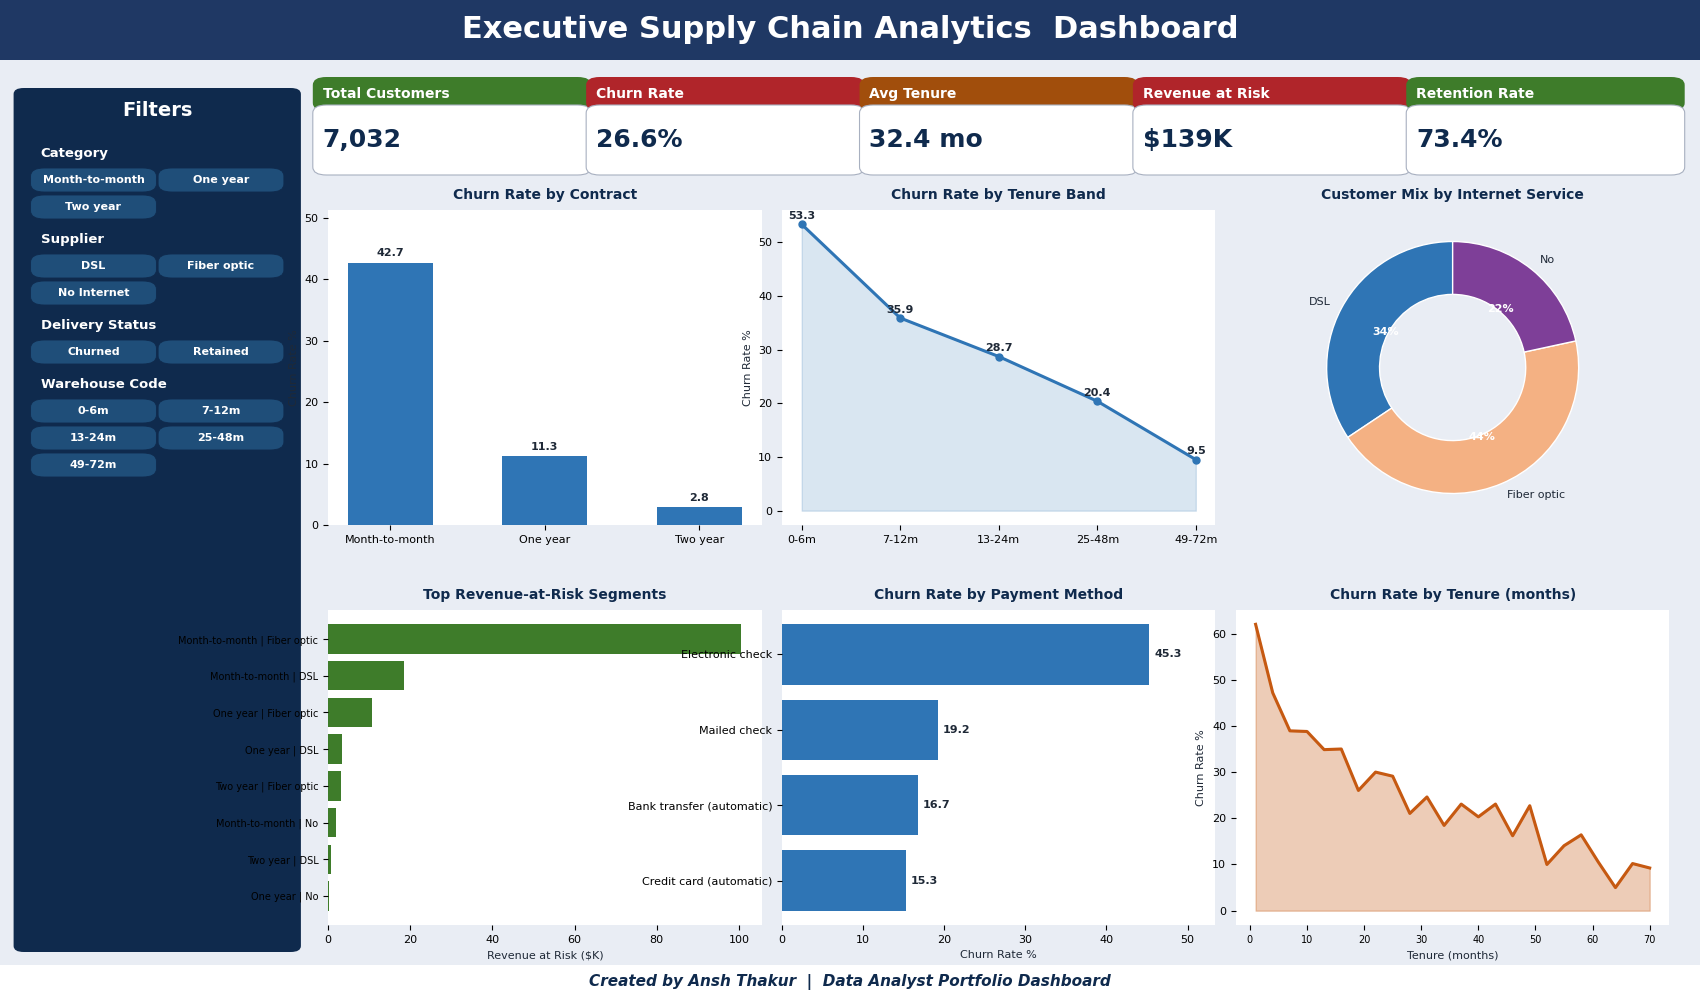
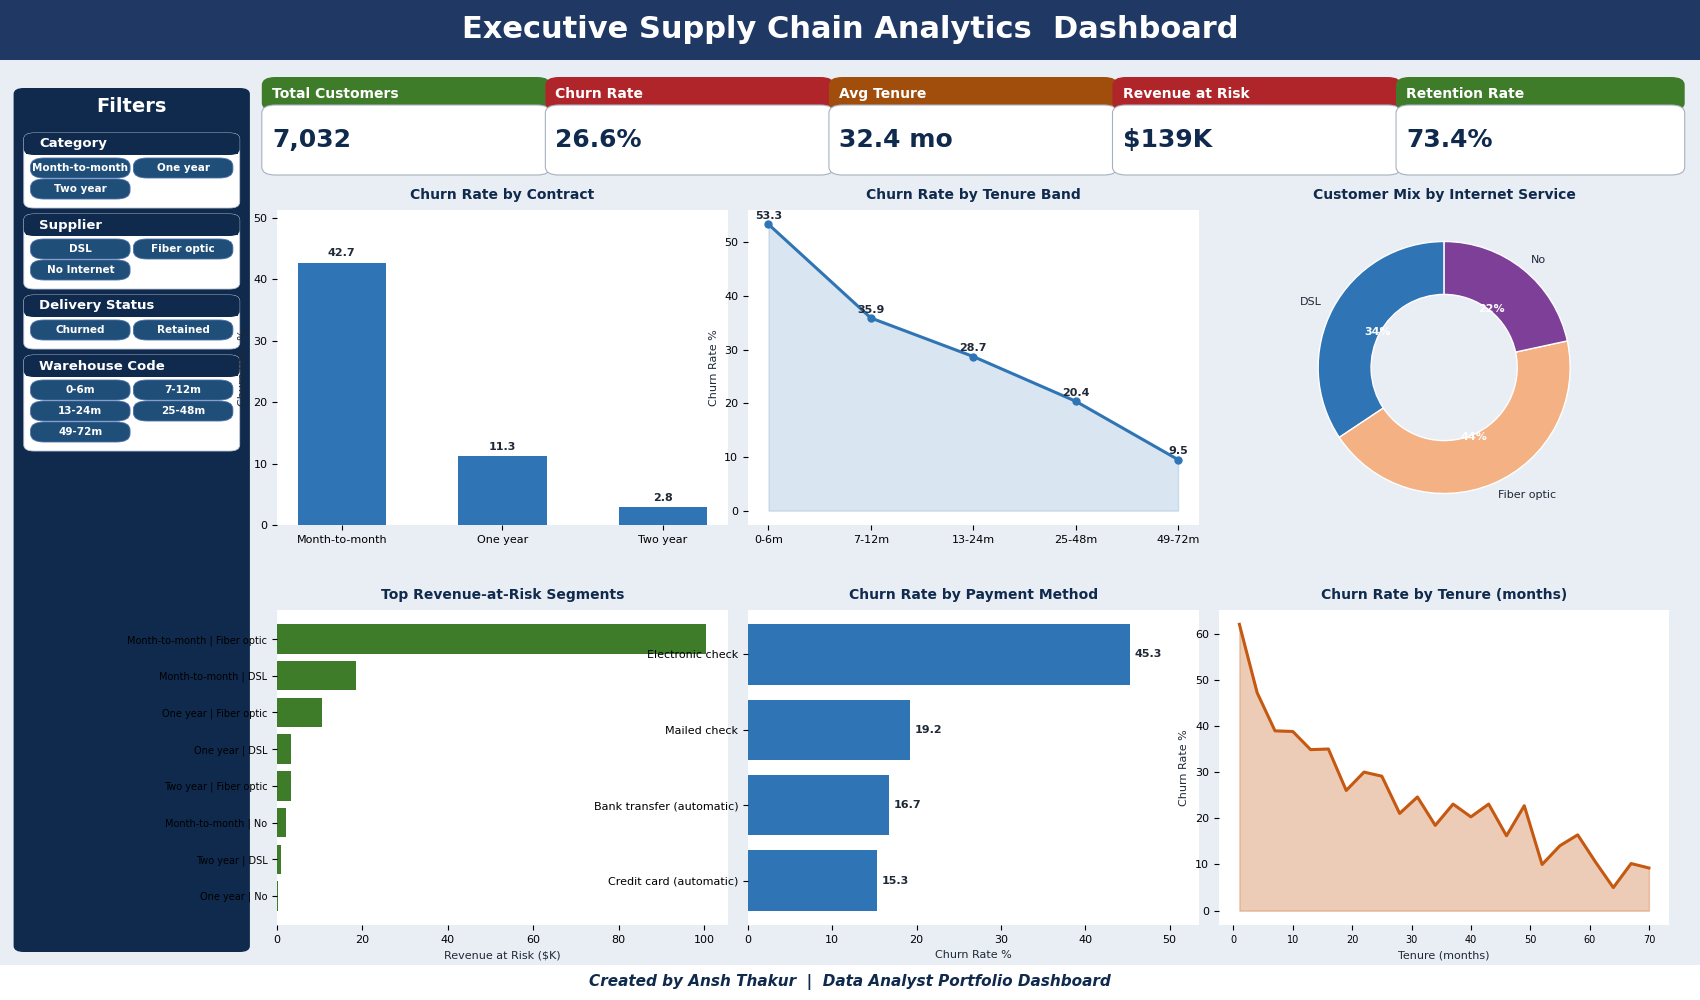
style(churn): redesign filter panel as slicer boxes (white body + dark header + blue chips) matching the supply chain reference

diff --git a/subscription-retention-analytics/src/render_dashboard_screenshot.py b/subscription-retention-analytics/src/render_dashboard_screenshot.py
@@ -48,31 +48,47 @@ def _kpi(ax, x, y, w, h, label, value, color):
 def _chip(ax, x, y, w, h, text):
     ax.add_patch(FancyBboxPatch((x, y), w, h,
                                 boxstyle="round,pad=0.001,rounding_size=0.008",
-                                linewidth=0.6, edgecolor=NAVY_DARK, facecolor=PANEL_BLUE,
+                                linewidth=0.6, edgecolor="#4A6FA8", facecolor=PANEL_BLUE,
                                 transform=ax.transAxes))
-    ax.text(x + w / 2, y + h / 2, text, color=WHITE, fontsize=8, weight="bold",
+    ax.text(x + w / 2, y + h / 2, text, color=WHITE, fontsize=7.5, weight="bold",
             transform=ax.transAxes, ha="center", va="center")
 
 
-def _filter_section(ax, x, y, w, items, label, section_w):
-    bar_h = 0.022
-    ax.add_patch(Rectangle((x, y - bar_h), section_w, bar_h,
+def _filter_section(ax, x_top, y_top, w, items, label):
+    """Draw one slicer box: dark header + white body with chips (2 per row)."""
+    # Box dimensions
+    chip_h = 0.018
+    chip_gap_y = 0.003
+    chip_pad_x = 0.004
+    chip_pad_y = 0.005
+    rows = math.ceil(len(items) / 2)
+    body_h = chip_pad_y * 2 + rows * chip_h + (rows - 1) * chip_gap_y
+    header_h = 0.020
+    box_h = header_h + body_h + 0.004
+    # White body with rounded corners
+    box_y = y_top - box_h
+    ax.add_patch(FancyBboxPatch((x_top, box_y), w, box_h,
+                                boxstyle="round,pad=0.001,rounding_size=0.006",
+                                linewidth=0.6, edgecolor="#C0C8D8",
+                                facecolor=WHITE, transform=ax.transAxes))
+    # Dark header strip (top portion of the box)
+    ax.add_patch(FancyBboxPatch((x_top, y_top - header_h), w, header_h,
+                                boxstyle="round,pad=0.001,rounding_size=0.006",
+                                linewidth=0, facecolor=NAVY_DARK, transform=ax.transAxes))
+    # Cover the bottom rounding of the header to make it flush with the body
+    ax.add_patch(Rectangle((x_top, y_top - header_h), w, header_h * 0.55,
                            facecolor=NAVY_DARK, transform=ax.transAxes))
-    ax.text(x + 0.008, y - bar_h / 2, label, color=WHITE, fontsize=9.5, weight="bold",
+    ax.text(x_top + 0.008, y_top - header_h / 2, label, color=WHITE, fontsize=9.5, weight="bold",
             transform=ax.transAxes, ha="left", va="center")
-    chip_h = 0.022
-    chip_gap_y = 0.005
-    chip_pad_x = 0.003
-    chip_w = (section_w - 3 * chip_pad_x) / 2
+    # Chips inside the body
+    chip_w = (w - 3 * chip_pad_x) / 2
     for i, item in enumerate(items):
         row = i // 2
         col = i % 2
-        cx = x + chip_pad_x + col * (chip_w + chip_pad_x)
-        cy = y - bar_h - chip_h - chip_gap_y - row * (chip_h + chip_gap_y)
+        cx = x_top + chip_pad_x + col * (chip_w + chip_pad_x)
+        cy = y_top - header_h - chip_pad_y - row * (chip_h + chip_gap_y) - chip_h
         _chip(ax, cx, cy, chip_w, chip_h, item)
-    rows_used = math.ceil(len(items) / 2)
-    total_h = bar_h + rows_used * chip_h + (rows_used - 1) * chip_gap_y + chip_gap_y
-    return total_h
+    return box_h + 0.006
 
 
 def main() -> None:
@@ -96,16 +112,16 @@ def main() -> None:
     ax.text(0.5, 0.97, "Executive Supply Chain Analytics  Dashboard", color=WHITE,
             fontsize=22, weight="bold", ha="center", va="center", transform=ax.transAxes)
 
-    # Filters panel
-    panel_w = 0.165
+    # Filters panel (each section is its own white slicer box)
+    panel_w = 0.135
     panel_x = 0.010
     panel_top_y = 0.91
     panel_bottom_y = 0.05
-    panel_h = panel_top_y - panel_bottom_y
-    ax.add_patch(FancyBboxPatch((panel_x, panel_bottom_y), panel_w, panel_h,
+    # Dark background panel for the Filters header
+    ax.add_patch(FancyBboxPatch((panel_x, panel_bottom_y), panel_w, panel_top_y - panel_bottom_y,
                                 boxstyle="round,pad=0.002,rounding_size=0.006",
                                 linewidth=0, facecolor=NAVY_DARK, transform=ax.transAxes))
-    header_h = 0.04
+    header_h = 0.034
     ax.text(panel_x + panel_w / 2, panel_top_y - header_h / 2, "Filters",
             color=WHITE, fontsize=14, weight="bold",
             ha="center", va="center", transform=ax.transAxes)
@@ -116,12 +132,12 @@ def main() -> None:
         ("Delivery Status", ["Churned", "Retained"]),
         ("Warehouse Code", ["0-6m", "7-12m", "13-24m", "25-48m", "49-72m"]),
     ]
-    y_cursor = panel_top_y - header_h - 0.012
-    inner_x = panel_x + 0.006
-    inner_w = panel_w - 0.012
+    y_cursor = panel_top_y - header_h - 0.010
+    inner_x = panel_x + 0.005
+    inner_w = panel_w - 0.010
     for label, items in sections:
-        used = _filter_section(ax, inner_x, y_cursor, inner_w, items, label, inner_w)
-        y_cursor -= used + 0.010
+        used = _filter_section(ax, inner_x, y_cursor, inner_w, items, label)
+        y_cursor -= used + 0.002
 
     # KPI cards
     kpis = [
